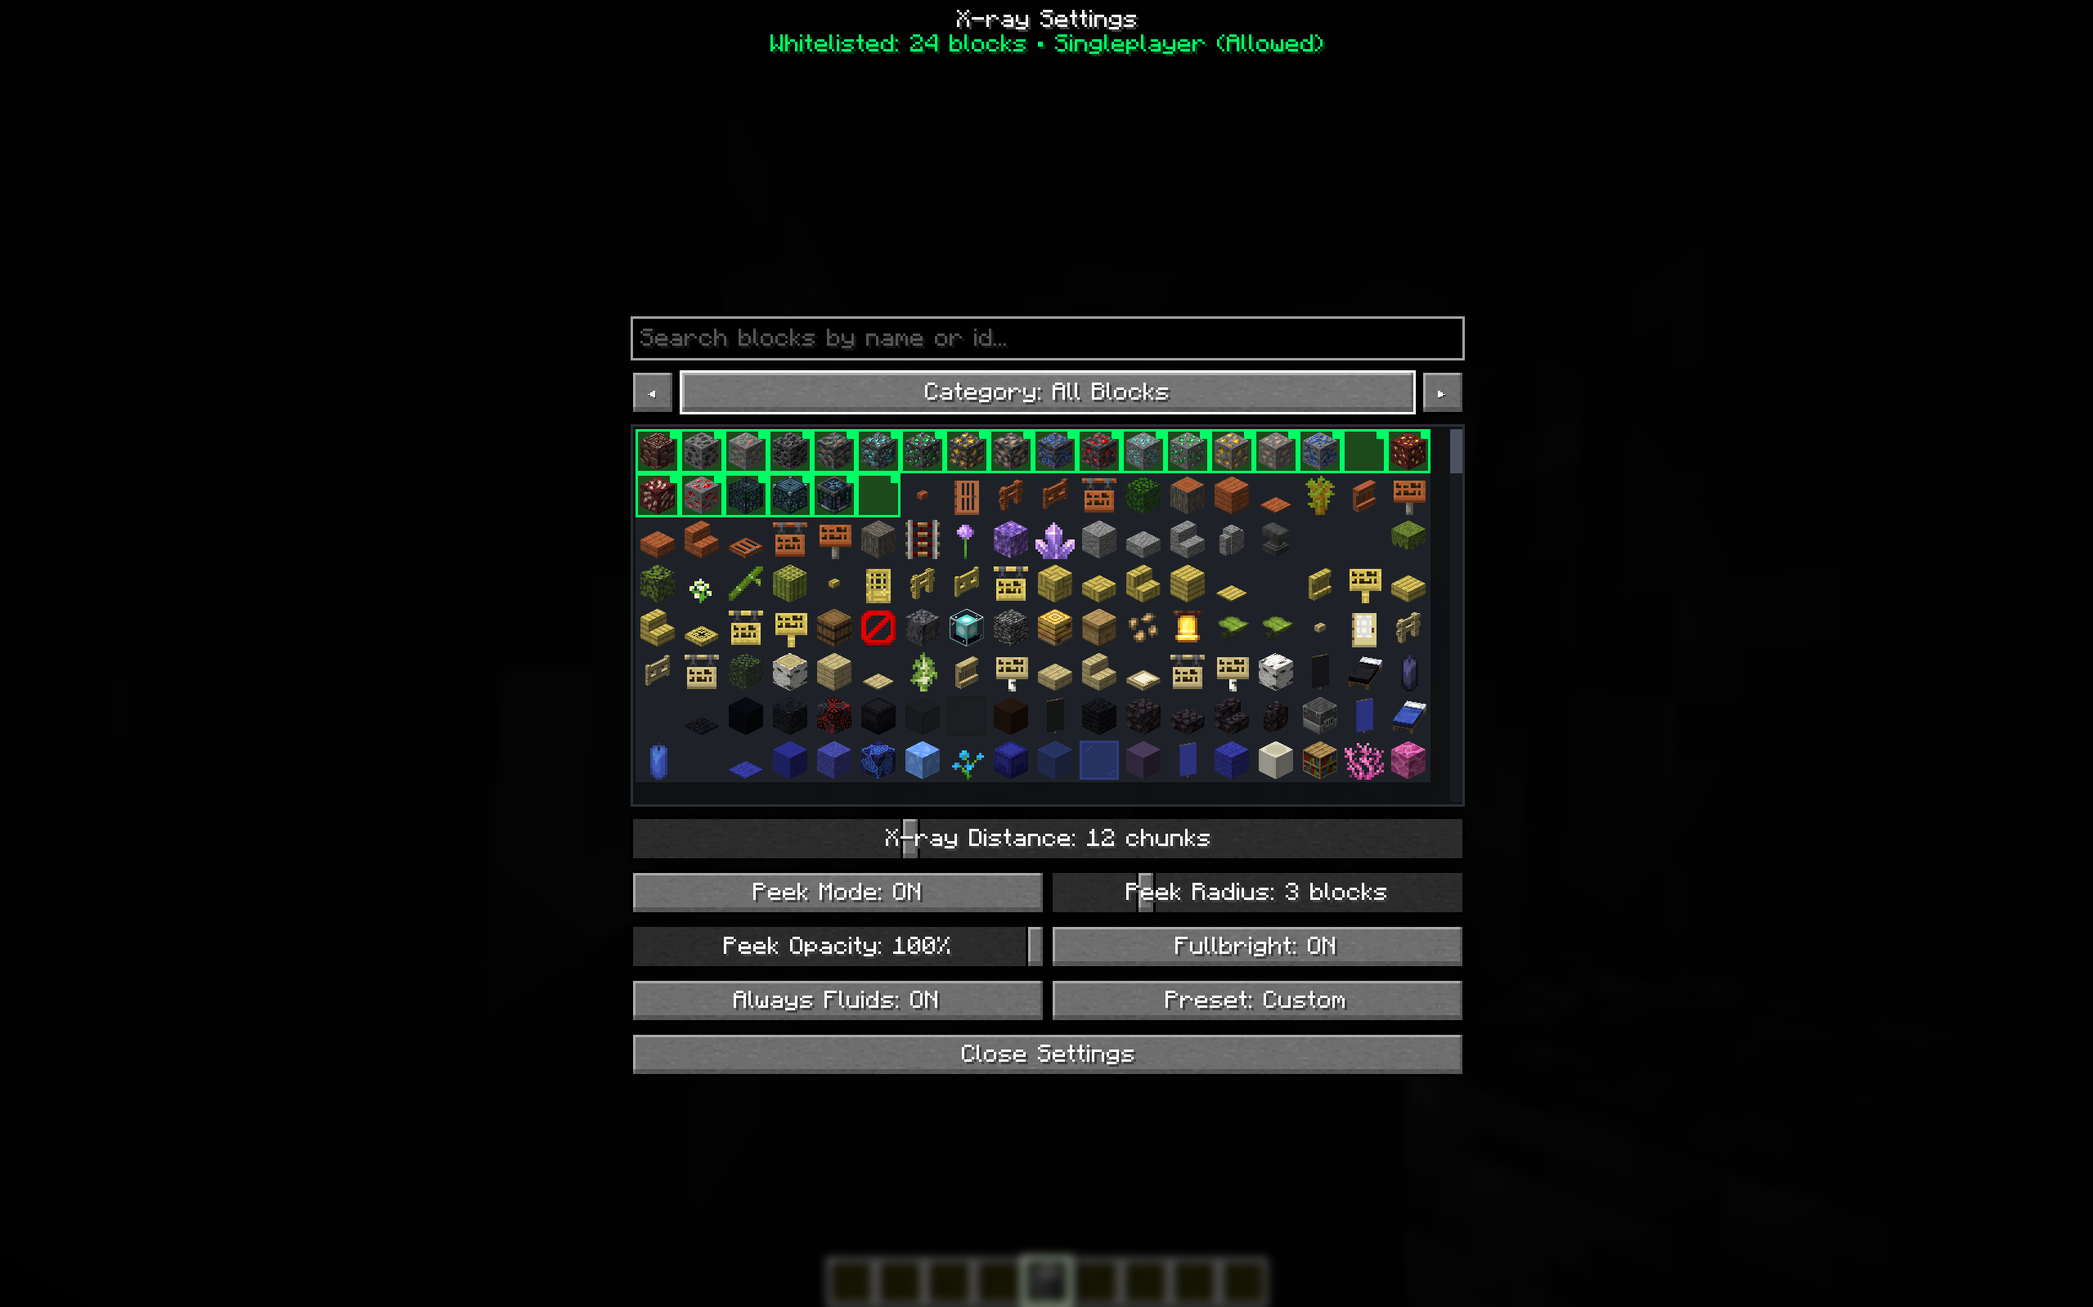
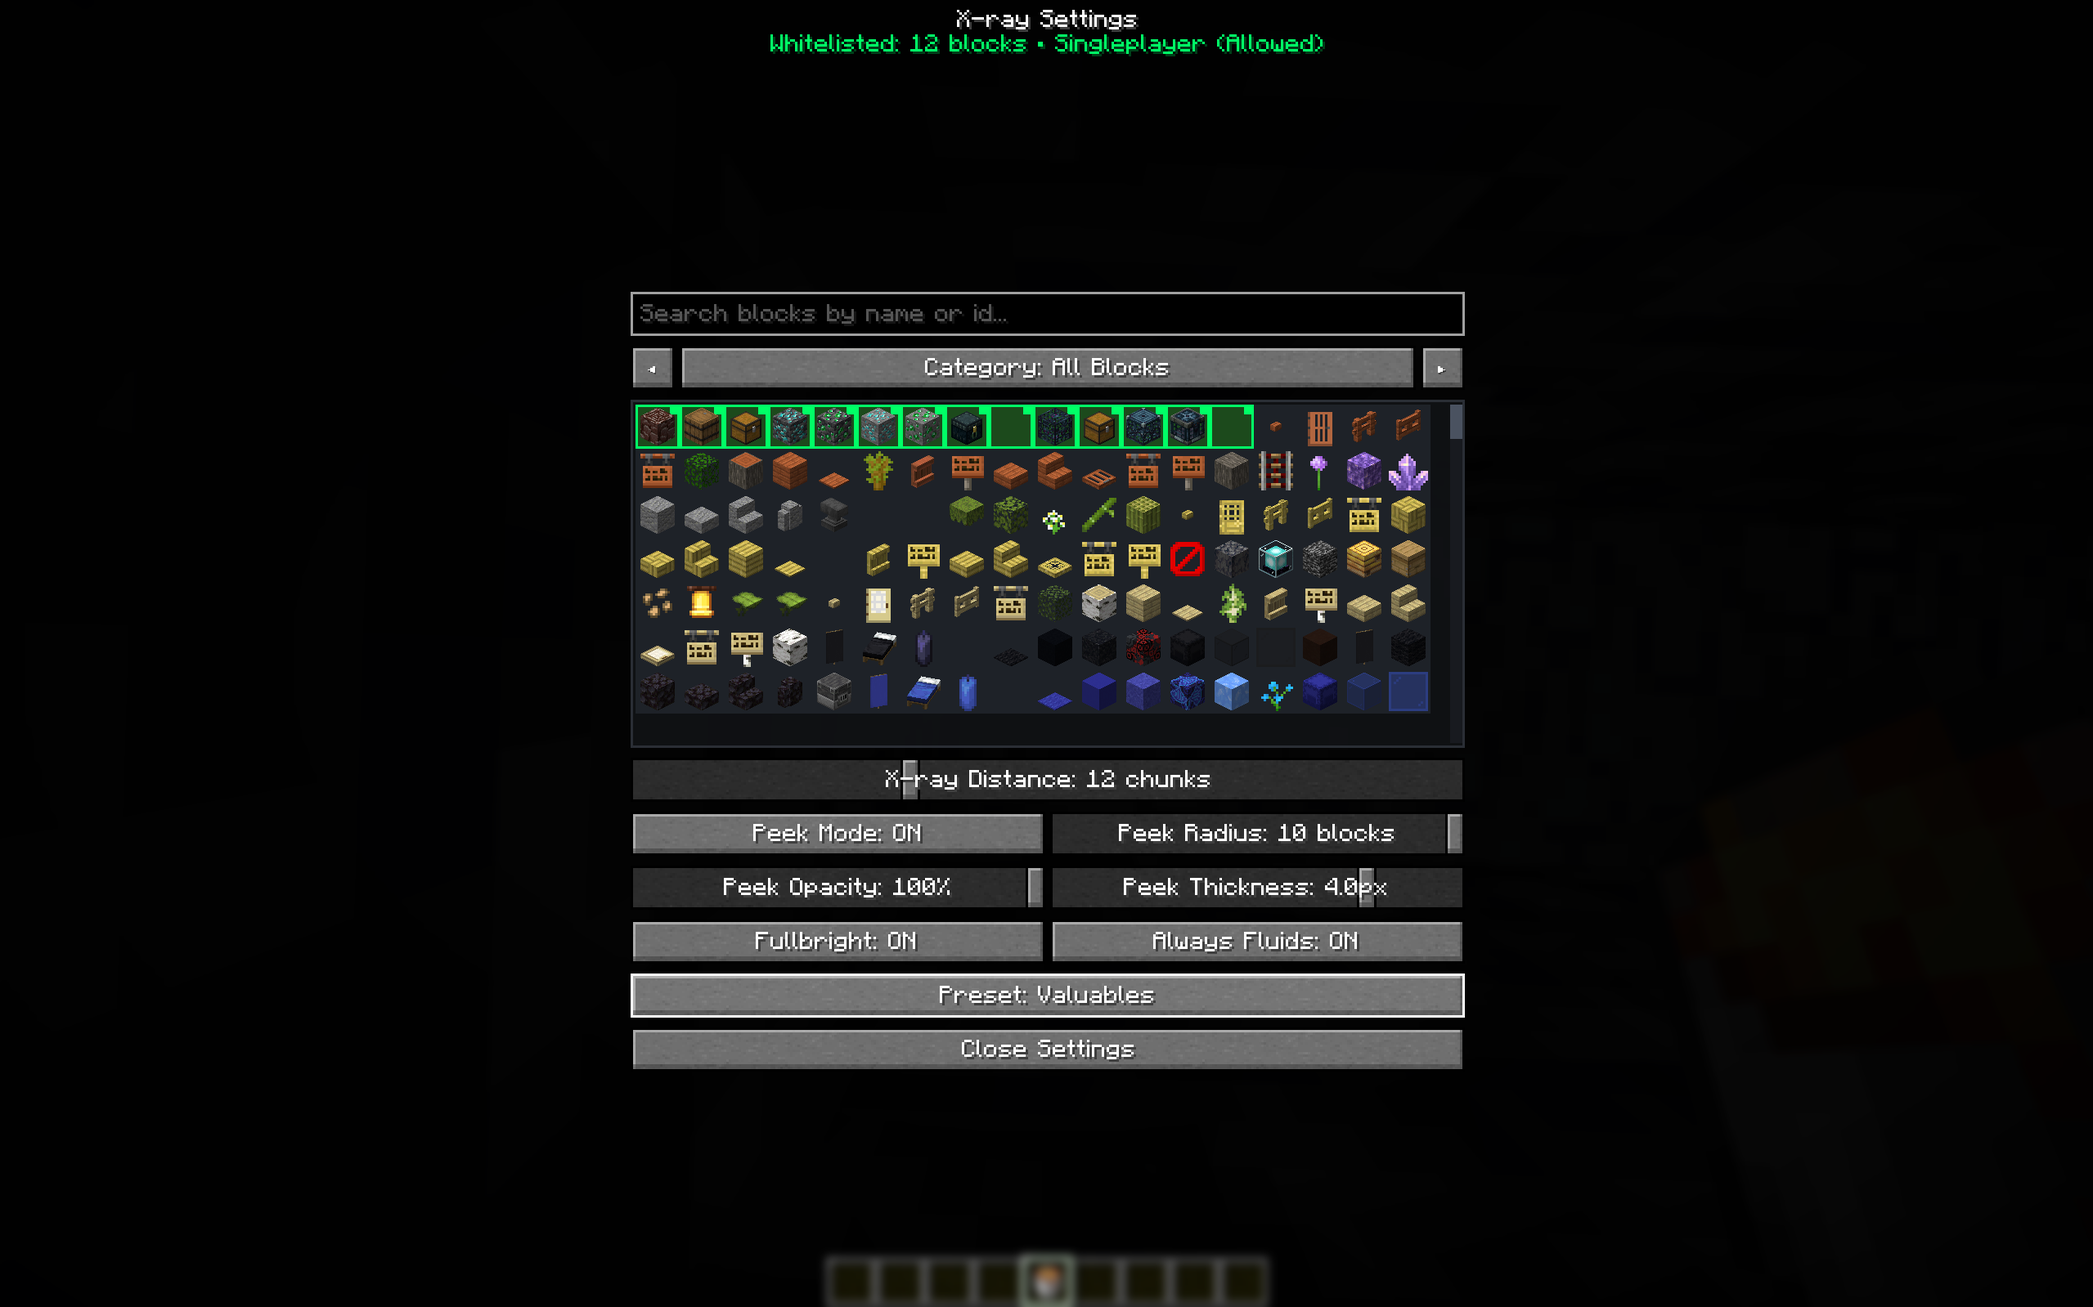
feat: add peek mode outline thickness feature (v1.7.2)
- Add configurable Peek Mode outline thickness (0.5px - 5.0px, default 1.5px)
- Add PeekThicknessSlider widget to the in-game settings screen
- Register `/xray peek thickness <0.5-5.0>` client command with tab-completion
- Connect dynamic stroke width to XrayPeekRenderer Gizmos rendering
- Persist peekThickness in config/xray-mod.json with thread-safe clamping
- Update README documentation and bump mod version to 1.7.2

Changed region(s): [[0.2778, 0.2145, 0.71, 0.8274], [0.4939, 0.95, 0.5248, 1.0]]

diff --git a/src/main/java/io/github/trouvaiilx/xray/core/state/XrayState.java b/src/main/java/io/github/trouvaiilx/xray/core/state/XrayState.java
@@ -31,6 +31,7 @@ public final class XrayState {
     private static final AtomicBoolean PEEK_ENABLED = new AtomicBoolean(true);
     private static final AtomicInteger PEEK_RADIUS = new AtomicInteger(XrayConfigData.DEFAULT_PEEK_RADIUS);
     private static final AtomicInteger PEEK_OPACITY = new AtomicInteger(XrayConfigData.DEFAULT_PEEK_OPACITY);
+    private static final AtomicInteger PEEK_THICKNESS = new AtomicInteger(Float.floatToRawIntBits(XrayConfigData.DEFAULT_PEEK_THICKNESS));
     private static final AtomicInteger PEEK_COLOR = new AtomicInteger(XrayConfigData.DEFAULT_PEEK_COLOR);
 
     private static final AtomicReference<String> ACTIVE_PRESET = new AtomicReference<>(XrayPresets.DEFAULT);
@@ -55,6 +56,7 @@ public final class XrayState {
         PEEK_ENABLED.set(data.peekEnabled);
         PEEK_RADIUS.set(clampPeekRadius(data.peekRadius));
         PEEK_OPACITY.set(clampPeekOpacity(data.peekOpacity));
+        PEEK_THICKNESS.set(Float.floatToRawIntBits(clampPeekThickness(data.peekThickness > 0.0F ? data.peekThickness : XrayConfigData.DEFAULT_PEEK_THICKNESS)));
         PEEK_COLOR.set(data.peekColor != 0 ? data.peekColor : XrayConfigData.DEFAULT_PEEK_COLOR);
         ACTIVE_PRESET.set(data.activePreset != null ? data.activePreset : XrayPresets.CUSTOM);
         publishWhitelist(data.whitelist != null ? data.whitelist : XrayPresets.blockIds(XrayPresets.DEFAULT));
@@ -68,6 +70,7 @@ public final class XrayState {
         data.peekEnabled = PEEK_ENABLED.get();
         data.peekRadius = PEEK_RADIUS.get();
         data.peekOpacity = PEEK_OPACITY.get();
+        data.peekThickness = getPeekThickness();
         data.peekColor = PEEK_COLOR.get();
         data.activePreset = ACTIVE_PRESET.get();
         data.whitelist = WHITELIST_IDS.get();
@@ -144,6 +147,18 @@ public final class XrayState {
     public static void setPeekOpacity(int opacity) {
         int clamped = clampPeekOpacity(opacity);
         if (PEEK_OPACITY.getAndSet(clamped) != clamped) {
+            XrayConfigManager.markDirty();
+        }
+    }
+
+    public static float getPeekThickness() {
+        return Float.intBitsToFloat(PEEK_THICKNESS.get());
+    }
+
+    public static void setPeekThickness(float thickness) {
+        float clamped = clampPeekThickness(thickness);
+        int bits = Float.floatToRawIntBits(clamped);
+        if (PEEK_THICKNESS.getAndSet(bits) != bits) {
             XrayConfigManager.markDirty();
         }
     }
@@ -278,5 +293,9 @@ public final class XrayState {
 
     private static int clampPeekOpacity(int value) {
         return Math.max(XrayConfigData.MIN_PEEK_OPACITY, Math.min(XrayConfigData.MAX_PEEK_OPACITY, value));
+    }
+
+    private static float clampPeekThickness(float value) {
+        return Math.max(XrayConfigData.MIN_PEEK_THICKNESS, Math.min(XrayConfigData.MAX_PEEK_THICKNESS, value));
     }
 }

diff --git a/src/main/java/io/github/trouvaiilx/xray/command/XrayCommand.java b/src/main/java/io/github/trouvaiilx/xray/command/XrayCommand.java
@@ -2,6 +2,7 @@ package io.github.trouvaiilx.xray.command;
 
 import io.github.trouvaiilx.xray.XrayState;
 import io.github.trouvaiilx.xray.compat.SodiumRenderRefresher;
+import com.mojang.brigadier.arguments.FloatArgumentType;
 import com.mojang.brigadier.arguments.IntegerArgumentType;
 import com.mojang.brigadier.context.CommandContext;
 import net.fabricmc.fabric.api.client.command.v2.ClientCommandRegistrationCallback;
@@ -9,6 +10,8 @@ import net.fabricmc.fabric.api.client.command.v2.ClientCommands;
 import net.fabricmc.fabric.api.client.command.v2.FabricClientCommandSource;
 import net.fabricmc.loader.api.FabricLoader;
 import net.minecraft.network.chat.Component;
+
+import java.util.Locale;
 
 /**
  * Registers client-only commands for X-Ray:
@@ -51,7 +54,10 @@ public final class XrayCommand {
                                                     .executes(XrayCommand::setPeekRadius)))
                                     .then(ClientCommands.literal("opacity")
                                             .then(ClientCommands.argument("value", IntegerArgumentType.integer(1, 100))
-                                                    .executes(XrayCommand::setPeekOpacity))))
+                                                    .executes(XrayCommand::setPeekOpacity)))
+                                    .then(ClientCommands.literal("thickness")
+                                            .then(ClientCommands.argument("value", FloatArgumentType.floatArg(io.github.trouvaiilx.xray.config.XrayConfig.MIN_PEEK_THICKNESS, io.github.trouvaiilx.xray.config.XrayConfig.MAX_PEEK_THICKNESS))
+                                                    .executes(XrayCommand::setPeekThickness))))
             );
         });
     }
@@ -118,6 +124,13 @@ public final class XrayCommand {
         int opacity = com.mojang.brigadier.arguments.IntegerArgumentType.getInteger(ctx, "value");
         io.github.trouvaiilx.xray.config.XrayConfig.setPeekOpacity(opacity);
         ctx.getSource().sendFeedback(Component.literal("Peek Opacity set to " + opacity + "%"));
+        return 1;
+    }
+
+    private static int setPeekThickness(CommandContext<FabricClientCommandSource> ctx) {
+        float thickness = FloatArgumentType.getFloat(ctx, "value");
+        io.github.trouvaiilx.xray.config.XrayConfig.setPeekThickness(thickness);
+        ctx.getSource().sendFeedback(Component.literal("Peek Thickness set to " + String.format(Locale.ROOT, "%.1f", thickness) + "px"));
         return 1;
     }
 

diff --git a/src/main/java/io/github/trouvaiilx/xray/gui/XrayConfigScreen.java b/src/main/java/io/github/trouvaiilx/xray/gui/XrayConfigScreen.java
@@ -56,7 +56,7 @@ public final class XrayConfigScreen extends Screen {
     @Override
     protected void init() {
         int panelWidth = Math.min(340, this.width - 20);
-        int panelHeight = Math.min(320, this.height - 20);
+        int panelHeight = Math.min(340, this.height - 20);
         int left = (this.width - panelWidth) / 2;
         int top = (this.height - panelHeight) / 2;
 
@@ -82,7 +82,7 @@ public final class XrayConfigScreen extends Screen {
         y += 22;
 
         // 3. Block Grid
-        int gridHeight = panelHeight - 22 - 22 - 22 - 22 - 22 - 22 - 22 - 10;
+        int gridHeight = panelHeight - 198;
         this.grid = new BlockGridWidget(left, y, panelWidth, Math.max(54, gridHeight), this::onWhitelistToggled);
         this.addRenderableWidget(this.grid);
         y += this.grid.getHeight() + 4;
@@ -101,18 +101,20 @@ public final class XrayConfigScreen extends Screen {
         y += 22;
 
         this.addRenderableWidget(new PeekOpacitySlider(left, y, halfWidth, 18));
-
-        this.fullbrightButton = Button.builder(fullbrightLabel(), b -> toggleFullbright())
-                .bounds(left + halfWidth + 2, y, halfWidth, 18).build();
-        this.addRenderableWidget(this.fullbrightButton);
+        this.addRenderableWidget(new PeekThicknessSlider(left + halfWidth + 2, y, halfWidth, 18));
         y += 22;
 
-        this.alwaysFluidsButton = Button.builder(alwaysFluidsLabel(), b -> toggleAlwaysFluids())
+        this.fullbrightButton = Button.builder(fullbrightLabel(), b -> toggleFullbright())
                 .bounds(left, y, halfWidth, 18).build();
+        this.addRenderableWidget(this.fullbrightButton);
+
+        this.alwaysFluidsButton = Button.builder(alwaysFluidsLabel(), b -> toggleAlwaysFluids())
+                .bounds(left + halfWidth + 2, y, halfWidth, 18).build();
         this.addRenderableWidget(this.alwaysFluidsButton);
+        y += 22;
 
         this.presetButton = Button.builder(presetLabel(), b -> cyclePreset())
-                .bounds(left + halfWidth + 2, y, halfWidth, 18).build();
+                .bounds(left, y, panelWidth, 18).build();
         this.addRenderableWidget(this.presetButton);
         y += 22;
 

diff --git a/src/main/java/io/github/trouvaiilx/xray/gui/PeekThicknessSlider.java b/src/main/java/io/github/trouvaiilx/xray/gui/PeekThicknessSlider.java
@@ -1,0 +1,35 @@
+package io.github.trouvaiilx.xray.gui;
+
+import io.github.trouvaiilx.xray.config.XrayConfig;
+import net.minecraft.client.gui.components.AbstractSliderButton;
+import net.minecraft.network.chat.Component;
+
+import java.util.Locale;
+
+public final class PeekThicknessSlider extends AbstractSliderButton {
+    private static final float RANGE = XrayConfig.MAX_PEEK_THICKNESS - XrayConfig.MIN_PEEK_THICKNESS;
+
+    public PeekThicknessSlider(int x, int y, int width, int height) {
+        super(x, y, width, height, Component.empty(), valueToProgress(XrayConfig.getPeekThickness()));
+        this.updateMessage();
+    }
+
+    private static double valueToProgress(float thickness) {
+        return (thickness - XrayConfig.MIN_PEEK_THICKNESS) / (double) RANGE;
+    }
+
+    private float progressToValue() {
+        double raw = XrayConfig.MIN_PEEK_THICKNESS + this.value * RANGE;
+        return (float) (Math.round(raw * 10.0) / 10.0);
+    }
+
+    @Override
+    protected void updateMessage() {
+        this.setMessage(Component.literal("Peek Thickness: " + String.format(Locale.ROOT, "%.1f", this.progressToValue()) + "px"));
+    }
+
+    @Override
+    protected void applyValue() {
+        XrayConfig.setPeekThickness(this.progressToValue());
+    }
+}

diff --git a/src/main/java/io/github/trouvaiilx/xray/render/XrayPeekRenderer.java b/src/main/java/io/github/trouvaiilx/xray/render/XrayPeekRenderer.java
@@ -34,6 +34,7 @@ public final class XrayPeekRenderer {
 
     // Cached GizmoStyle state to avoid constructing new styles every tick when config is unchanged
     private static int lastArgb = 0;
+    private static float lastThickness = 0.0F;
     private static GizmoStyle cachedStyle = null;
 
     private XrayPeekRenderer() {
@@ -62,10 +63,12 @@ public final class XrayPeekRenderer {
             int alphaByte = (int) (opacity * 255.0F) & 0xFF;
             int colorRGB = XrayConfig.getPeekColor();
             int argb = (alphaByte << 24) | (colorRGB & 0xFFFFFF);
+            float thickness = XrayConfig.getPeekThickness();
 
-            if (cachedStyle == null || lastArgb != argb) {
+            if (cachedStyle == null || lastArgb != argb || lastThickness != thickness) {
                 lastArgb = argb;
-                cachedStyle = GizmoStyle.stroke(argb, 1.5F);
+                lastThickness = thickness;
+                cachedStyle = GizmoStyle.stroke(argb, thickness);
             }
 
             GizmoStyle style = cachedStyle;

diff --git a/src/main/java/io/github/trouvaiilx/xray/config/XrayConfig.java b/src/main/java/io/github/trouvaiilx/xray/config/XrayConfig.java
@@ -19,6 +19,8 @@ public final class XrayConfig {
     public static final int MAX_PEEK_RADIUS = XrayConfigData.MAX_PEEK_RADIUS;
     public static final int MIN_PEEK_OPACITY = XrayConfigData.MIN_PEEK_OPACITY;
     public static final int MAX_PEEK_OPACITY = XrayConfigData.MAX_PEEK_OPACITY;
+    public static final float MIN_PEEK_THICKNESS = XrayConfigData.MIN_PEEK_THICKNESS;
+    public static final float MAX_PEEK_THICKNESS = XrayConfigData.MAX_PEEK_THICKNESS;
 
     private XrayConfig() {
     }
@@ -69,6 +71,14 @@ public final class XrayConfig {
 
     public static void setPeekOpacity(int opacity) {
         XrayState.setPeekOpacity(opacity);
+    }
+
+    public static float getPeekThickness() {
+        return XrayState.getPeekThickness();
+    }
+
+    public static void setPeekThickness(float thickness) {
+        XrayState.setPeekThickness(thickness);
     }
 
     public static int getPeekColor() {

diff --git a/src/main/java/io/github/trouvaiilx/xray/core/config/XrayConfigData.java b/src/main/java/io/github/trouvaiilx/xray/core/config/XrayConfigData.java
@@ -21,6 +21,10 @@ public final class XrayConfigData {
     public static final int MAX_PEEK_OPACITY = 100;
     public static final int DEFAULT_PEEK_OPACITY = 40;
 
+    public static final float MIN_PEEK_THICKNESS = 0.5F;
+    public static final float MAX_PEEK_THICKNESS = 5.0F;
+    public static final float DEFAULT_PEEK_THICKNESS = 1.5F;
+
     public static final int DEFAULT_PEEK_COLOR = 0x00E5FF;
 
     public int renderDistance = DEFAULT_RENDER_DISTANCE;
@@ -29,6 +33,7 @@ public final class XrayConfigData {
     public boolean peekEnabled = true;
     public int peekRadius = DEFAULT_PEEK_RADIUS;
     public int peekOpacity = DEFAULT_PEEK_OPACITY;
+    public float peekThickness = DEFAULT_PEEK_THICKNESS;
     public int peekColor = DEFAULT_PEEK_COLOR;
     public String activePreset = XrayPresets.DEFAULT;
     public Set<String> whitelist = new LinkedHashSet<>();

diff --git a/README.md b/README.md
@@ -1,5 +1,5 @@
 <div align="center">
-  <img src="icon.png" width="128" height="128" alt="X-Ray Mod Icon" />
+  <img src="icon.png" width="256" height="256" alt="X-Ray Mod Icon" />
   <h1>X-Ray Mod</h1>
 
   [![Build](https://github.com/trouvaiilx/xray-mod/actions/workflows/build.yml/badge.svg)](https://github.com/trouvaiilx/xray-mod/actions/workflows/build.yml)
@@ -11,10 +11,6 @@
 
 > **Sodium Required**: This mod **ONLY works when the [Sodium](https://modrinth.com/mod/sodium) mod is installed**. Sodium provides the chunk rendering pipeline that this mod hooks into to hide non-whitelisted blocks and apply fullbright lighting. Without Sodium installed, X-ray rendering will **NOT** function (attempting to use commands or keybinds will display a warning message in chat).
 
-> **Modrinth Content Rules Compliant**: In accordance with [Modrinth Rule 3.3.a](https://modrinth.com/legal/rules), X-ray functionality strictly requires a **server-side opt-in** in multiplayer environments:
-> - **Singleplayer / Integrated Local Game**: Fully unlocked by default (you are the local host).
-> - **Multiplayer Dedicated Servers**: X-ray features are disabled by default unless the server explicitly opts in by installing this mod on the server or broadcasting the `xray-mod:opt_in` handshake packet.
->
 > 💡 *Looking for a standalone version without server opt-in checks (e.g. for personal use or private servers)? Check out the [`client-only`](https://github.com/trouvaiilx/xray-mod/tree/client-only) branch.*
 
 > **Why This Mod Was Created**: After searching everywhere for a modern Fabric X-ray mod, none were available that natively supported Sodium's custom rendering pipeline without issues. This mod was built from the ground up to solve that, hooking directly into Sodium for smooth, glitch-free X-ray rendering!
@@ -42,7 +38,7 @@ To allow players to use X-Ray on your dedicated server:
 - **Customizable Peek Mode**:
   - Outlines local unmined boundary blocks, non-full blocks (slabs, stairs, fences), and container entities (*Chest Boats*, *Minecarts with Chests*, *Chest Rafts*, *Hoppers*, *Spawners*) with customizable wireframe bounding boxes.
   - Enabled by default with a soft cyan (`#00E5FF`) stroke color.
-  - Configurable **Peek Radius** (1–10 blocks) and **Peek Opacity** (1%–100%) via GUI sliders or `/xray peek` commands.
+  - Configurable **Peek Radius** (1–10 blocks), **Peek Opacity** (1%–100%), and **Peek Outline Thickness** (0.5px–5.0px) via GUI sliders or `/xray peek` commands.
 - **Chest & Container Entity Integration**:
   - Dynamically intercepts `BlockEntityRenderDispatcher` and `EntityRenderDispatcher`.
   - Non-whitelisted chests, trapped chests, vaults, shulker boxes, barrels, chest minecarts, and chest boats are **culled and hidden** through walls when X-ray is enabled.
@@ -53,7 +49,7 @@ To allow players to use X-Ray on your dedicated server:
   - **Backslash (`\`)**: Toggle X-Ray ON / OFF (triggers immediate live chunk re-render).
   - **Apostrophe (`'`)**: Toggle Peek Mode ON / OFF.
   - **Right Shift**: Open Settings GUI.
-- **Commands**: `/xray`, `/xray toggle`, `/xray peek [on|off]`, `/xray peek radius <1-10>`, `/xray peek opacity <1-100>` with full tab-completion.
+- **Commands**: `/xray`, `/xray toggle`, `/xray peek [on|off]`, `/xray peek radius <1-10>`, `/xray peek opacity <1-100>`, `/xray peek thickness <0.5-5.0>` with full tab-completion.
 - **Search & Category Filters**: Easily filter blocks by category (*All*, *Ores*, *Storage*, *Redstone*, *Structures*, *Nether*, *End*, *Underground*, *Natural*, *Building*, *Other*) or search by block ID and localized name.
 - **Preset System**: Quick-select presets (*Default*, *Ores*, *Fluids*, *Valuables*, or *Custom*).
 - **X-Ray Render Distance**:
@@ -80,7 +76,7 @@ To allow players to use X-Ray on your dedicated server:
         <img src="docs/images/overworld.png" alt="Overworld X-Ray" width="400" />
       </td>
       <td align="center" width="50%">
-        <b>Nether X-Ray</b><br/>
+        <b>Nether X-Ray & Peek Mode</b><br/>
         <img src="docs/images/nether.png" alt="Nether X-Ray" width="400" />
       </td>
     </tr>
@@ -98,6 +94,7 @@ To allow players to use X-Ray on your dedicated server:
 | **Open Menu** | **Right Shift** | Opens the interactive settings GUI menu |
 | **Set Peek Radius** | `/xray peek radius <1-10>` | Adjusts Peek Mode outline radius (1 to 10 blocks) |
 | **Set Peek Opacity** | `/xray peek opacity <1-100>` | Adjusts Peek Mode line opacity percentage (1% to 100%) |
+| **Set Peek Thickness** | `/xray peek thickness <0.5-5.0>` | Adjusts Peek Mode outline wireframe thickness (0.5px to 5.0px) |
 | **Server Status** | `/xrayserver status` | (Server/Admin) View current server opt-in status |
 | **Server Opt-In** | `/xrayserver allow <true/false>` | (Server/Admin) Toggle server-wide X-ray permission |
 
